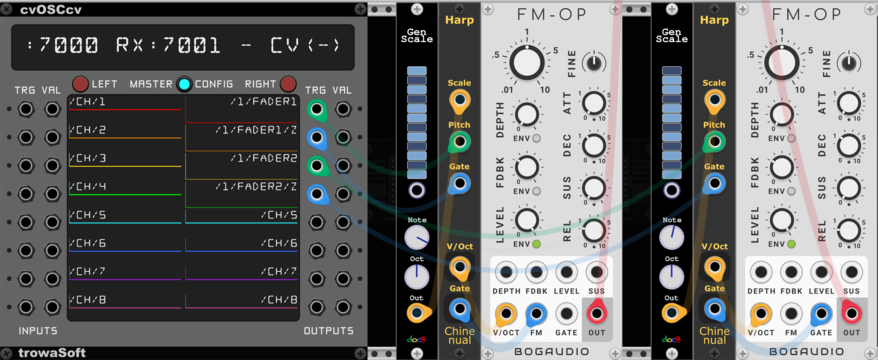
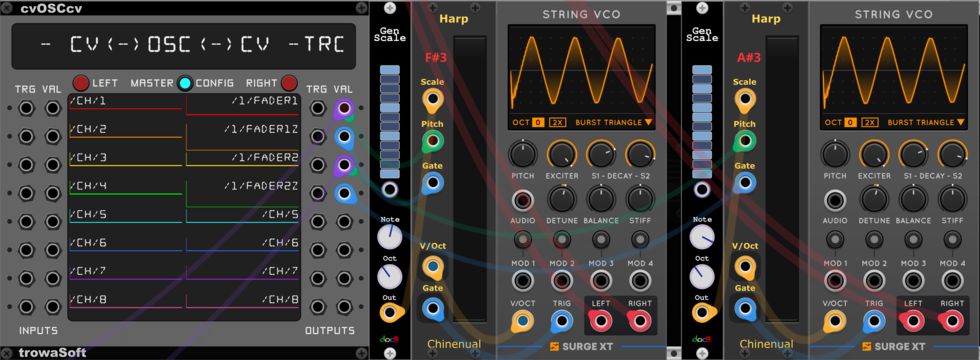
doc updates

diff --git a/src/Harp.cpp b/src/Harp.cpp
@@ -163,10 +163,12 @@ namespace Harp {
         std::string fontPath;
         char displayStr[16];
         std::string* text;
-
-        NoteDisplayWidget(std::string* t)
+        std::string fakeData;
+	
+        NoteDisplayWidget(std::string* t, std::string fakeData)
         {
             text = t;
+	    this->fakeData = fakeData;
             fontPath = std::string(
                 asset::plugin(pluginInstance, "res/fonts/opensans/OpenSans-Bold.ttf"));
         }
@@ -185,7 +187,7 @@ namespace Harp {
                 nvgFillColor(args.vg, ledTextColor);
 
                 nvgTextAlign(args.vg, NVG_ALIGN_LEFT | NVG_ALIGN_BOTTOM);
-                nvgText(args.vg, textPos.x, textPos.y, text ? text->c_str() : "", NULL);
+                nvgText(args.vg, textPos.x, textPos.y, text ? text->c_str() : fakeData.c_str(), NULL);
             }
         }
     };
@@ -224,17 +226,24 @@ namespace Harp {
 	void drawLayer(const DrawArgs& args, int layer) override {
 	    if (layer != 1)
 		return;
-
-	    if (! module)
-		return;
 	    
-	    if (module->notePlaying) {
-		int noteRange = (int)module->params[Harp::NOTE_RANGE_PARAM].getValue();
+	    if ((!module) || module->notePlaying) {
+		
+		int noteRange;
+		int currDegree;
+		if (module) {
+		    noteRange = (int)module->params[Harp::NOTE_RANGE_PARAM].getValue();
+		    currDegree = module->currDegree;
+		} else {
+		    // fake data for the module browser:
+		    noteRange = 24;
+		    currDegree = 6;
+		}
 
 #define STRIP_LED_Y_OFFSET 5.0		
 		float height =  (box.getHeight()-(2.f*STRIP_LED_Y_OFFSET)) / noteRange;
 		float x = STRIP_LED_X_OFFSET;
-		float y = STRIP_LED_X_OFFSET + (height * ((noteRange-1)-module->currDegree));
+		float y = STRIP_LED_X_OFFSET + (height * ((noteRange-1)-currDegree));
 		nvgBeginPath(args.vg);
 		nvgFillColor(args.vg, ledTextColor);
 		//INFO("rect %f %f %f %f %f",x, y, STRIP_LED_WIDTH, height, ratio);
@@ -272,17 +281,17 @@ namespace Harp {
             addOutput(createOutputCentered<PJ301MPort>(
                 mm2px(Vec(FIRST_X_OUT + SPACING_X_OUT + 0 * SPACING_X_OUT, FIRST_Y + SPACING_Y * 7)), module, Harp::GATE_OUTPUT));
 
-	    auto rootNoteDisplay = new NoteDisplayWidget(module ? &module->rootNote_text : NULL);
+	    auto rootNoteDisplay = new NoteDisplayWidget(module ? &module->rootNote_text : NULL, "C4");
 	    rootNoteDisplay->box.size = Vec(30, 10);
 	    rootNoteDisplay->box.pos = mm2px(Vec(LED_OFFSET_X + FIRST_X_OUT + SPACING_X_OUT + 0 * SPACING_X_OUT, LED_OFFSET_Y + FIRST_Y + SPACING_Y * 1));
 	    addChild(rootNoteDisplay);
 
-	    auto playingNoteDisplay = new NoteDisplayWidget(module ? &module->playingNote_text : NULL);
+	    auto playingNoteDisplay = new NoteDisplayWidget(module ? &module->playingNote_text : NULL, "E4");
 	    playingNoteDisplay->box.size = Vec(30, 10);
 	    playingNoteDisplay->box.pos = mm2px(Vec(LED_OFFSET_X + FIRST_X_OUT + SPACING_X_OUT + 0 * SPACING_X_OUT, LED_OFFSET_Y + FIRST_Y + SPACING_Y * 5));
 	    addChild(playingNoteDisplay);
 	    
-	    auto debugDisplay = new NoteDisplayWidget(module ? &module->debug_text : NULL);
+	    auto debugDisplay = new NoteDisplayWidget(module ? &module->debug_text : NULL, "");
 	    debugDisplay->box.size = Vec(30, 10);
 	    debugDisplay->box.pos = mm2px(Vec(LED_OFFSET_X + FIRST_X_OUT + SPACING_X_OUT + 0 * SPACING_X_OUT, LED_OFFSET_Y + FIRST_Y + SPACING_Y * 4.5));
 	    addChild(debugDisplay);

diff --git a/README.md b/README.md
@@ -411,9 +411,9 @@ The signal range of the control surface is configured via the context menu:
 Harp does not depend on any particular control surface and can be configured to work with a variety of CV input ranges.  You can use it with anything that can create a continuous voltage as the musician "strums" (could be a slider on a MIDI control surface, a ribbon controller, heck, even an LFO)   I've created a [simple control surface for the iPad using TouchOSC](https://github.com/chinenual/Chinenual-VCV/releases/latest).  Use Trowasoft's cvOSCcv to convert its OSC messages to CV:
 
 * **/1/fader1** - Left pitch - sends 0.0 through 10.0 corresponding to where the left control strip is being touched.
-* **/1/fader1/z** - Left gate - 1 when the user is touching the left control strip; 0 when not touching
+* **/1/fader1z** - Left gate - 1 when the user is touching the left control strip; 0 when not touching
 * **/1/fader2** - Right pitch - sends 0.0 through 10.0 corresponding to where the right control strip is being touched.
-* **/1/fader2/z** - Right gate - 1 when the user is touching the right control strip; 0 when not touching
+* **/1/fader2z** - Right gate - 1 when the user is touching the right control strip; 0 when not touching
 
 Works best when wired with a direct USB connection.  Be sure to enable "touch messages" (/z). 
 

diff --git a/CHANGELOG.md b/CHANGELOG.md
@@ -4,6 +4,7 @@
 
 * Add some eye-candy to the Harp.  Print the quantized note and also display it graphically on an LED strip. 
 * Fix an off-by-one in the quantization computation.
+* Replace the TouchOSC v1 example client with one built in TouchOSC v2.  Had some problems with the touch messages from v1 confusing cvOSCcv. 
 
 ## 2.7.0-beta3
 
